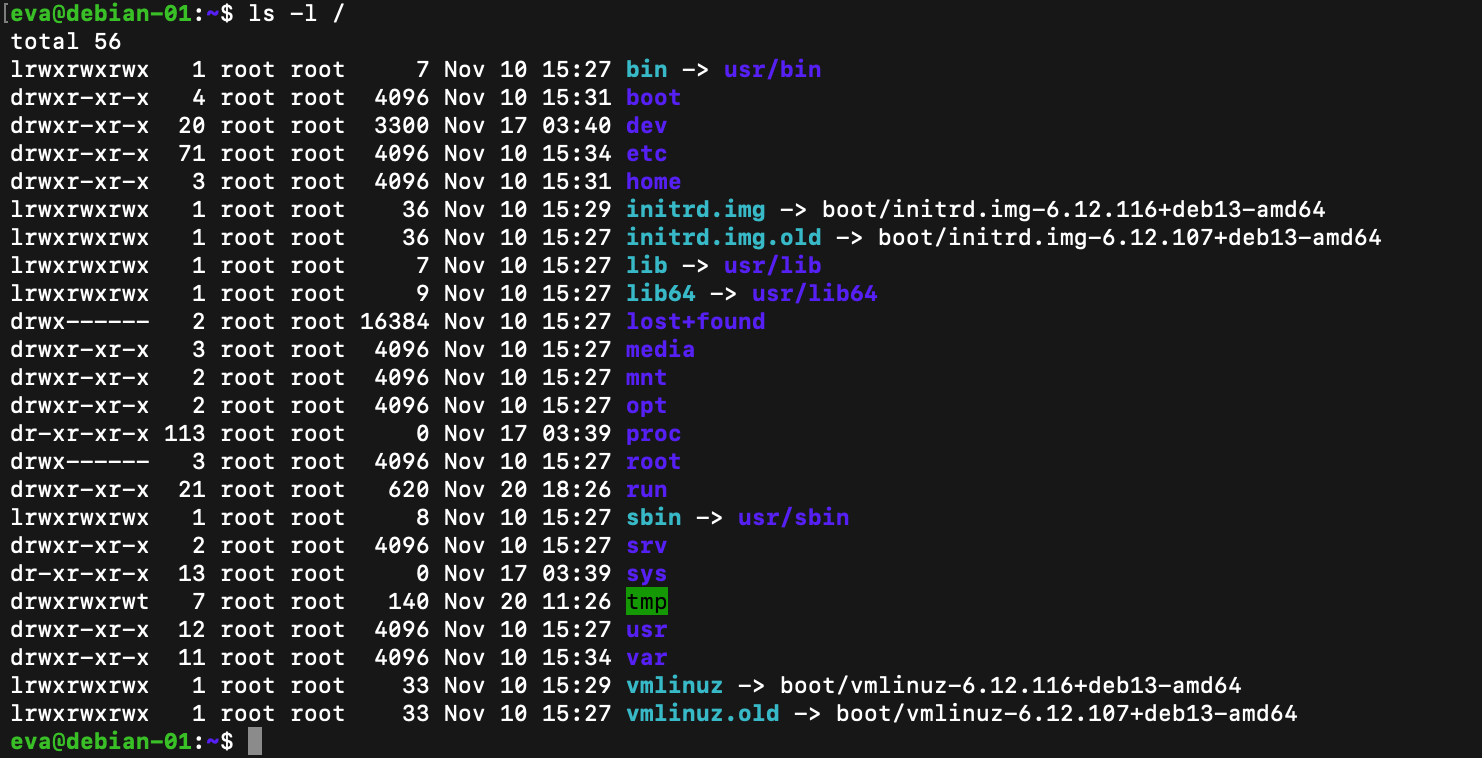
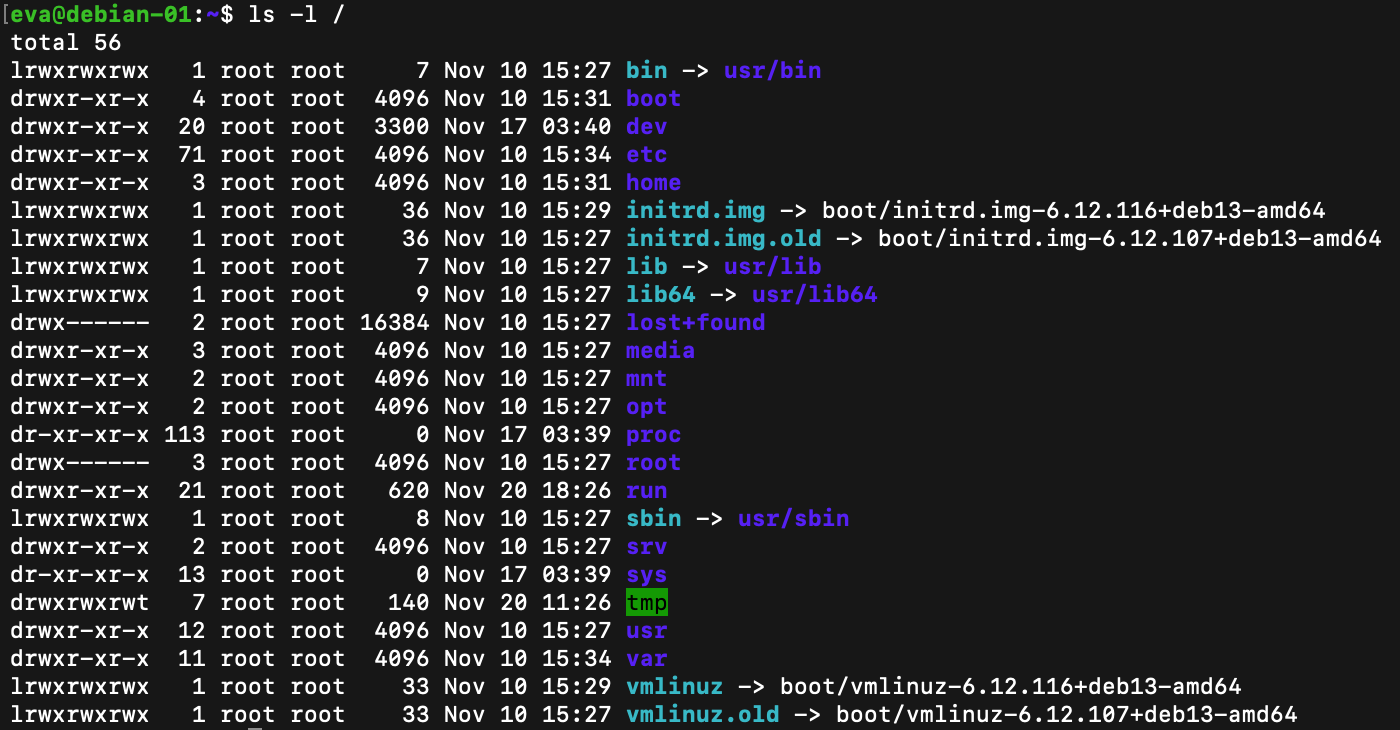
07: explore the tree — ls -l /, symlinks, kernel links, virtual folders

Changed region(s): [[0.0, 0.0, 0.9829, 1.0]]

diff --git a/semaine-03/07-linux-file-structure/README.md b/semaine-03/07-linux-file-structure/README.md
@@ -30,6 +30,42 @@ _(to fill in)_
 ### 1. Explore the real tree on `debian-01`
 ```bash
 ls /                 # names only
+ls -l /etc | less    # details, one page at a time (q = quit, /word = search)
+ls -l /              # details of the top of the tree
+```
+
+**How to read one `ls -l` line:**
+```
+-rw-r--r-- 1 root root 211 Nov 10 15:27 hosts
+│└──┬────┘   └──┬───┘  │   └────┬─────┘ └ name
+│   │           │      │        └ last modified (= the day I installed debian-01)
+│   │           │      └ size in bytes
+│   │           └ owner and group
+│   └ permissions (project 08)
+└ type: - file · d directory · l link (shortcut)
+```
+
+**What `ls -l /` revealed:**
+
+| Entry | What I saw | What it means |
+|---|---|---|
+| `bin`, `sbin`, `lib`, `lib64` | `l` + `-> usr/bin`, `-> usr/sbin`… | Not real folders: **symbolic links** kept for old scripts. The real programs live in `/usr` (Debian's "merged /usr") |
+| link sizes 7, 8, 9 | `bin -> usr/bin` = **7** | A symlink is a tiny file holding an **address**; its size is the length of that text (`usr/bin` = 7 characters) |
+| `vmlinuz` / `vmlinuz.old` | `-> boot/vmlinuz-6.12.116…` / `-> …6.12.107…` | The **current kernel** and the **previous one**, kept as a fallback if a new kernel fails to boot. Same for `initrd.img` |
+| `proc`, `sys` | size **0**, dated at the last boot | **Virtual** folders created in memory by the kernel: nothing on disk |
+| `root`, `lost+found` | `drwx------` | Only root can enter |
+| `tmp` | `drwxrwxrwt` | Everyone can write, but the final **`t`** (sticky bit) means you can only delete **your own** files (project 08) |
+| `/etc/gshadow`, `/etc/credstore` | `-rw-r-----` / `drwx------` | Unlike most of `/etc` (readable by all), files holding **secrets** are locked down by permissions |
+
+![ls -l / on debian-01](screenshots/01-ls-l-root.png)
+
+🕵 **Side finding:** `proc`, `sys` and `dev` were dated **Tue 03:39** while I logged in on **Friday**. That's the VM's boot time, so `debian-01` had been running for **3 days** after I forgot to shut it down, holding 2 GiB of the host's 8 GB. The filesystem itself told me. Lesson: always `exit` + **Shutdown** at the end of a session.
+
+## Steps
+
+### 1. Explore the real tree on `debian-01`
+```bash
+ls /                 # names only
 ls -l /etc | less    # long format, page by page (q = quit, /word = search)
 ls -l /              # long format of the root: reveals types and shortcuts
 ```
